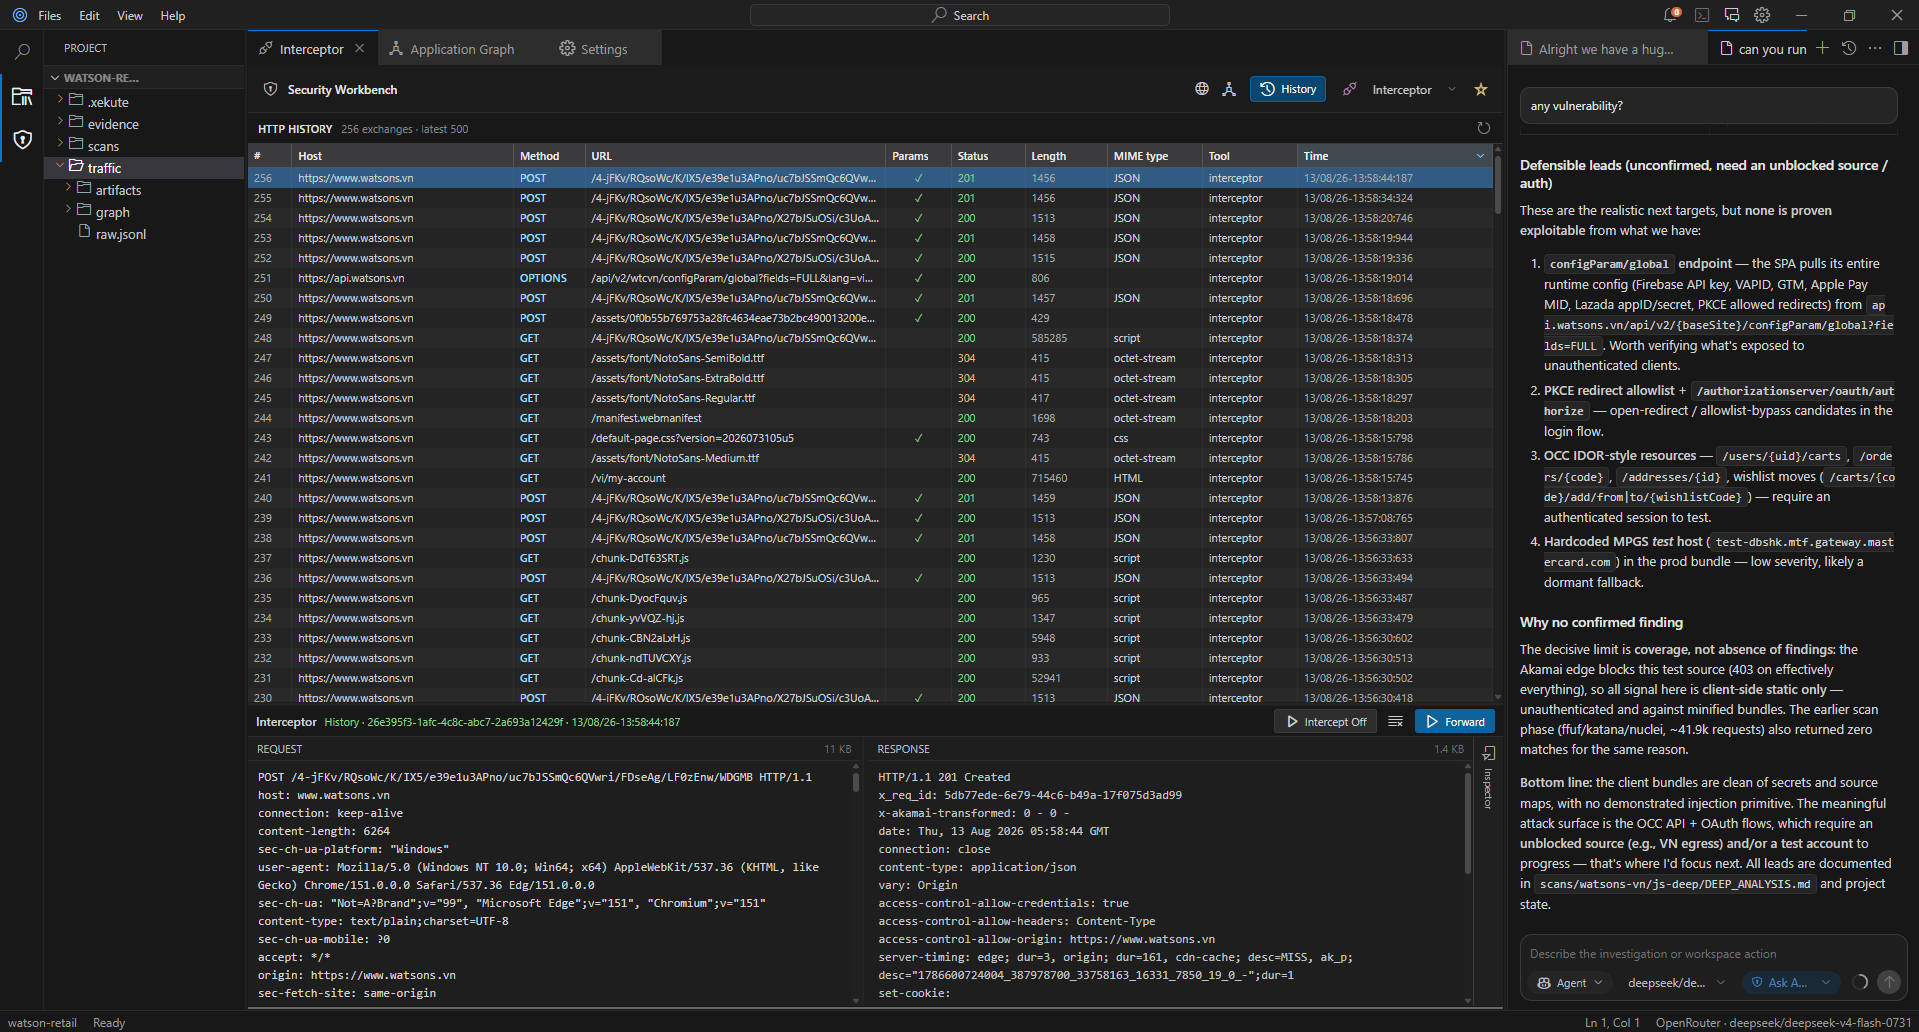
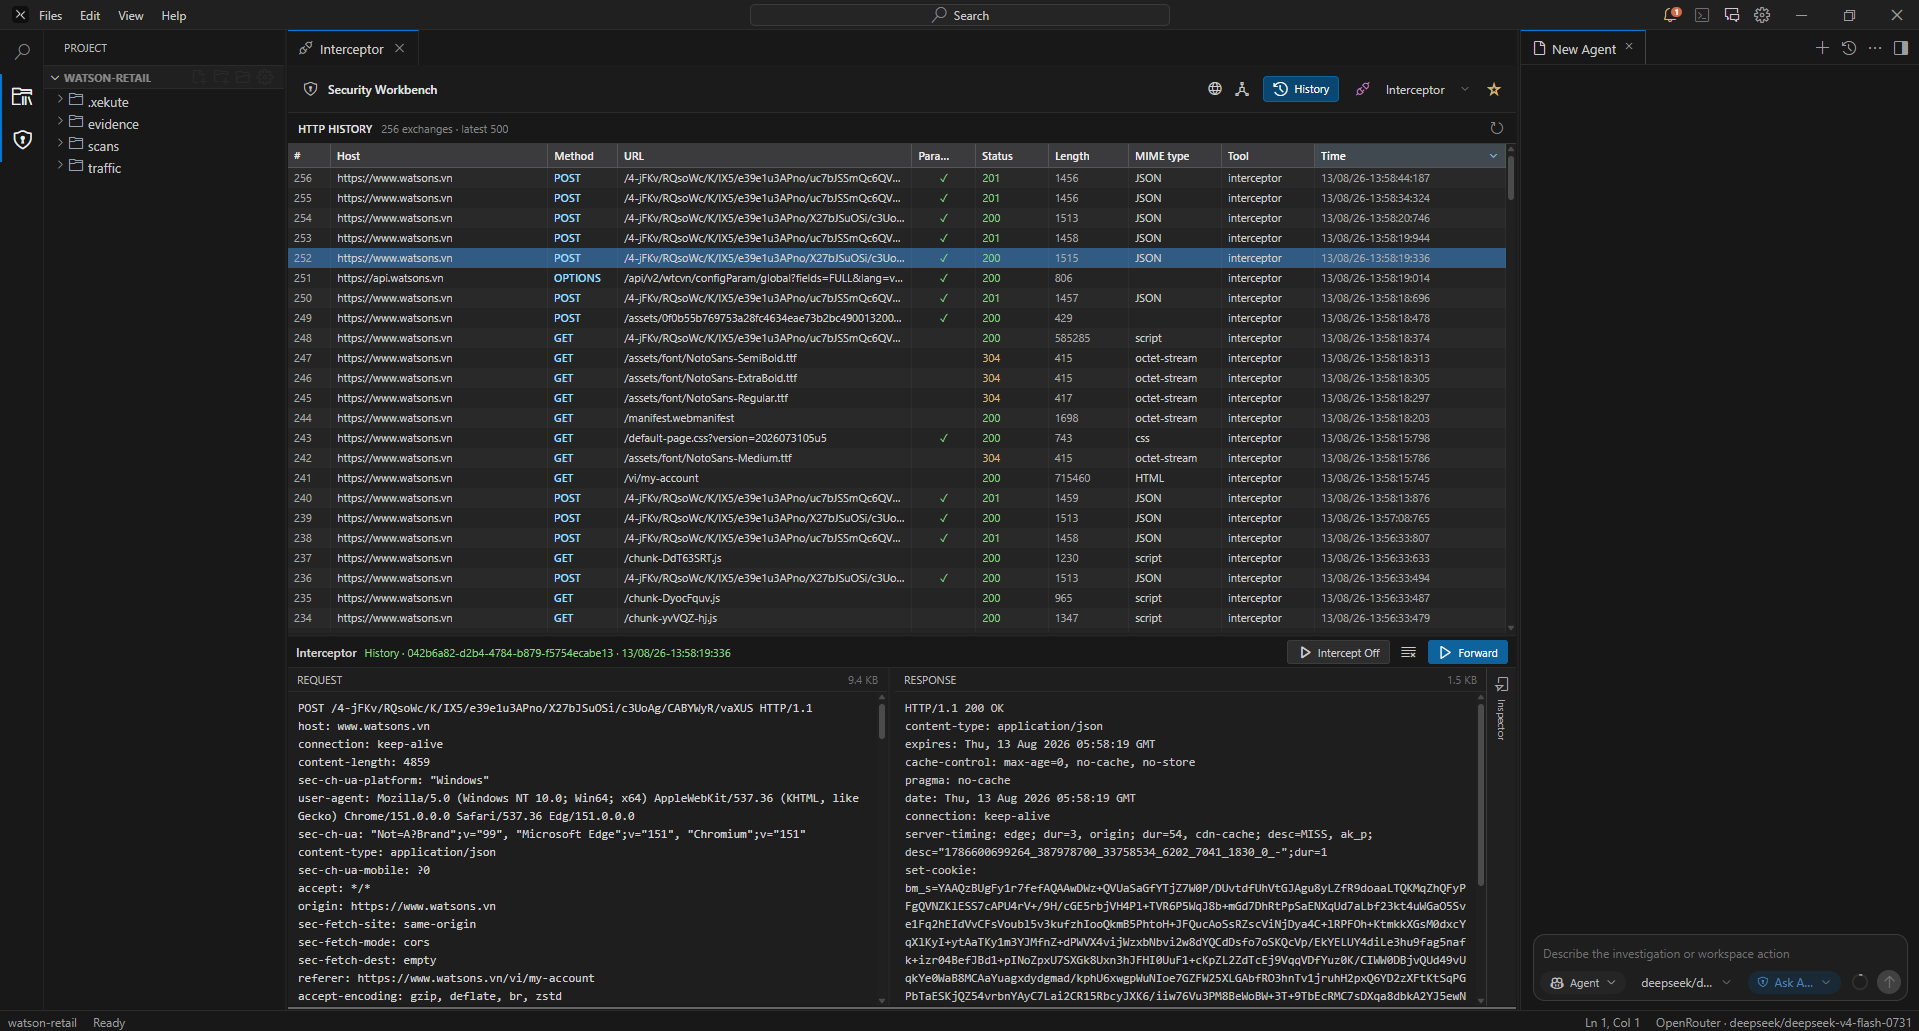
updated xekute

diff --git a/xekute/xekute.html b/xekute/xekute.html
@@ -4,7 +4,7 @@
   <meta charset="utf-8"><meta name="viewport" content="width=device-width,initial-scale=1">
   <meta name="description" content="Xekute is a local-first AI-assisted workspace for authorized penetration testing and vulnerability assessment.">
   <meta name="theme-color" content="#3478ff"><title>Xekute — Security assessment workspace for Windows</title>
-  <link rel="icon" href="../icon.png"><link rel="stylesheet" href="../project.css?v=20260818-xekute-clean-hero-2">
+  <link rel="icon" href="xekute_icon.png"><link rel="stylesheet" href="../project.css?v=20260818-xekute-icon">
 </head>
 <body class="theme-Xekute">
   <div class="noise" aria-hidden="true"></div>
@@ -18,6 +18,7 @@
     <section class="product-hero">
       <div class="hero-copy">
         <div class="hero-meta"><p class="eyebrow">Authorized security · Windows alpha</p></div>
+        <img class="product-logo" src="xekute_icon.png" alt="Xekute icon" width="128" height="128">
         <h1 class="product-name">Xekute</h1>
         <div class="hero-end"><p class="hero-summary">A local-first Windows workspace for authorized security testing—scope, traffic, evidence, tools, behavior maps, reports, and AI assistance in one project.</p><div class="hero-actions"><a class="button primary" href="https://github.com/mahirhacks/XEKUTE/releases/download/v0.2.1/XEKUTESetup.exe">Download for Windows</a><a class="button primary" href="#openrouter-guide">Get started for free ↓</a></div></div>
       </div>

diff --git a/project.css b/project.css
@@ -40,6 +40,7 @@ body.theme-jarvis .scroll-thumb { background:var(--accent-2); box-shadow:0 0 14p
 body.theme-Xekute .product-hero { display:block; min-height:100svh; background:#090909; }
 body.theme-Xekute .hero-copy { min-height:100svh; align-items:center; padding:120px var(--pad) 64px; text-align:center; }
 body.theme-Xekute .hero-meta { width:100%; text-align:left; }
+body.theme-Xekute .product-logo { width:clamp(88px,11vw,150px); height:auto; margin:4vh auto 0; border-radius:24%; }
 body.theme-Xekute .product-name { margin:0 auto; text-align:center; }
 body.theme-Xekute .hero-end { grid-template-columns:1fr; width:min(100%,780px); margin-top:0; text-align:center; }
 body.theme-Xekute .hero-actions { justify-content:center; }
